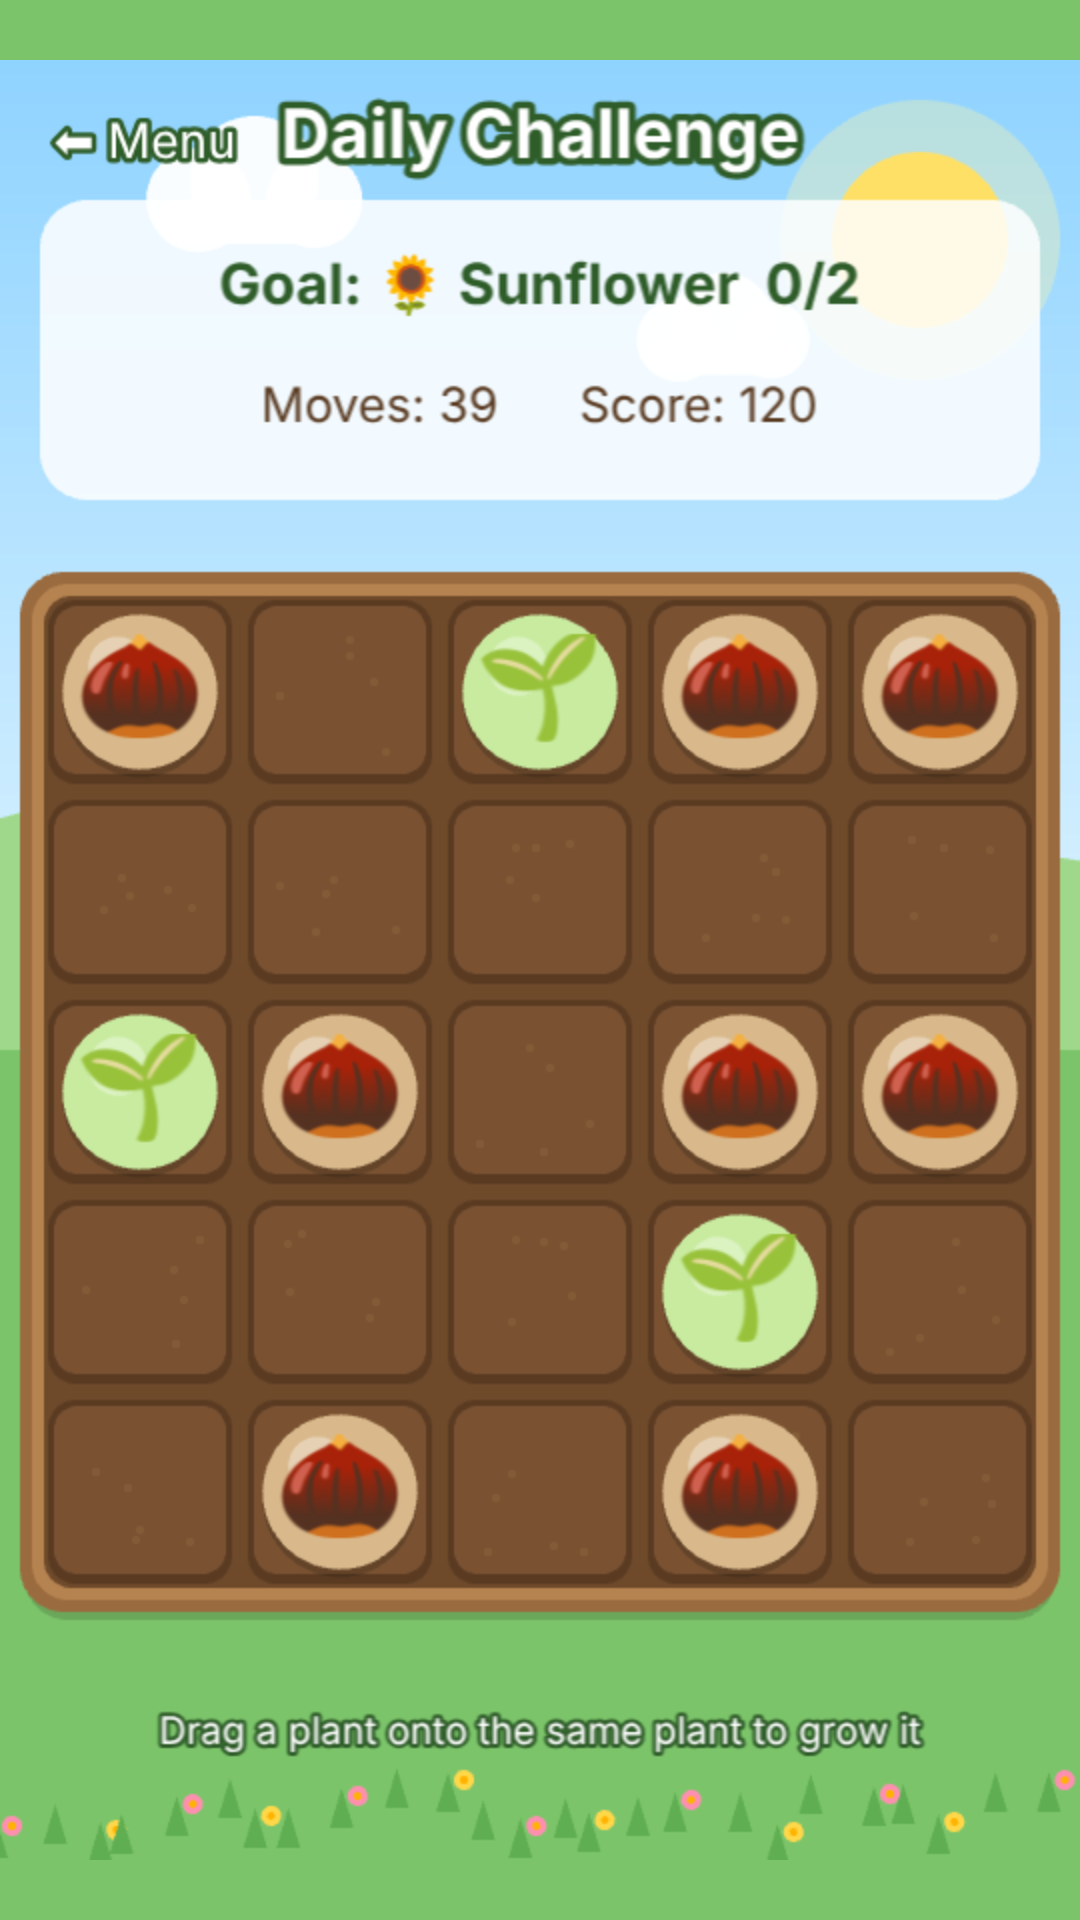
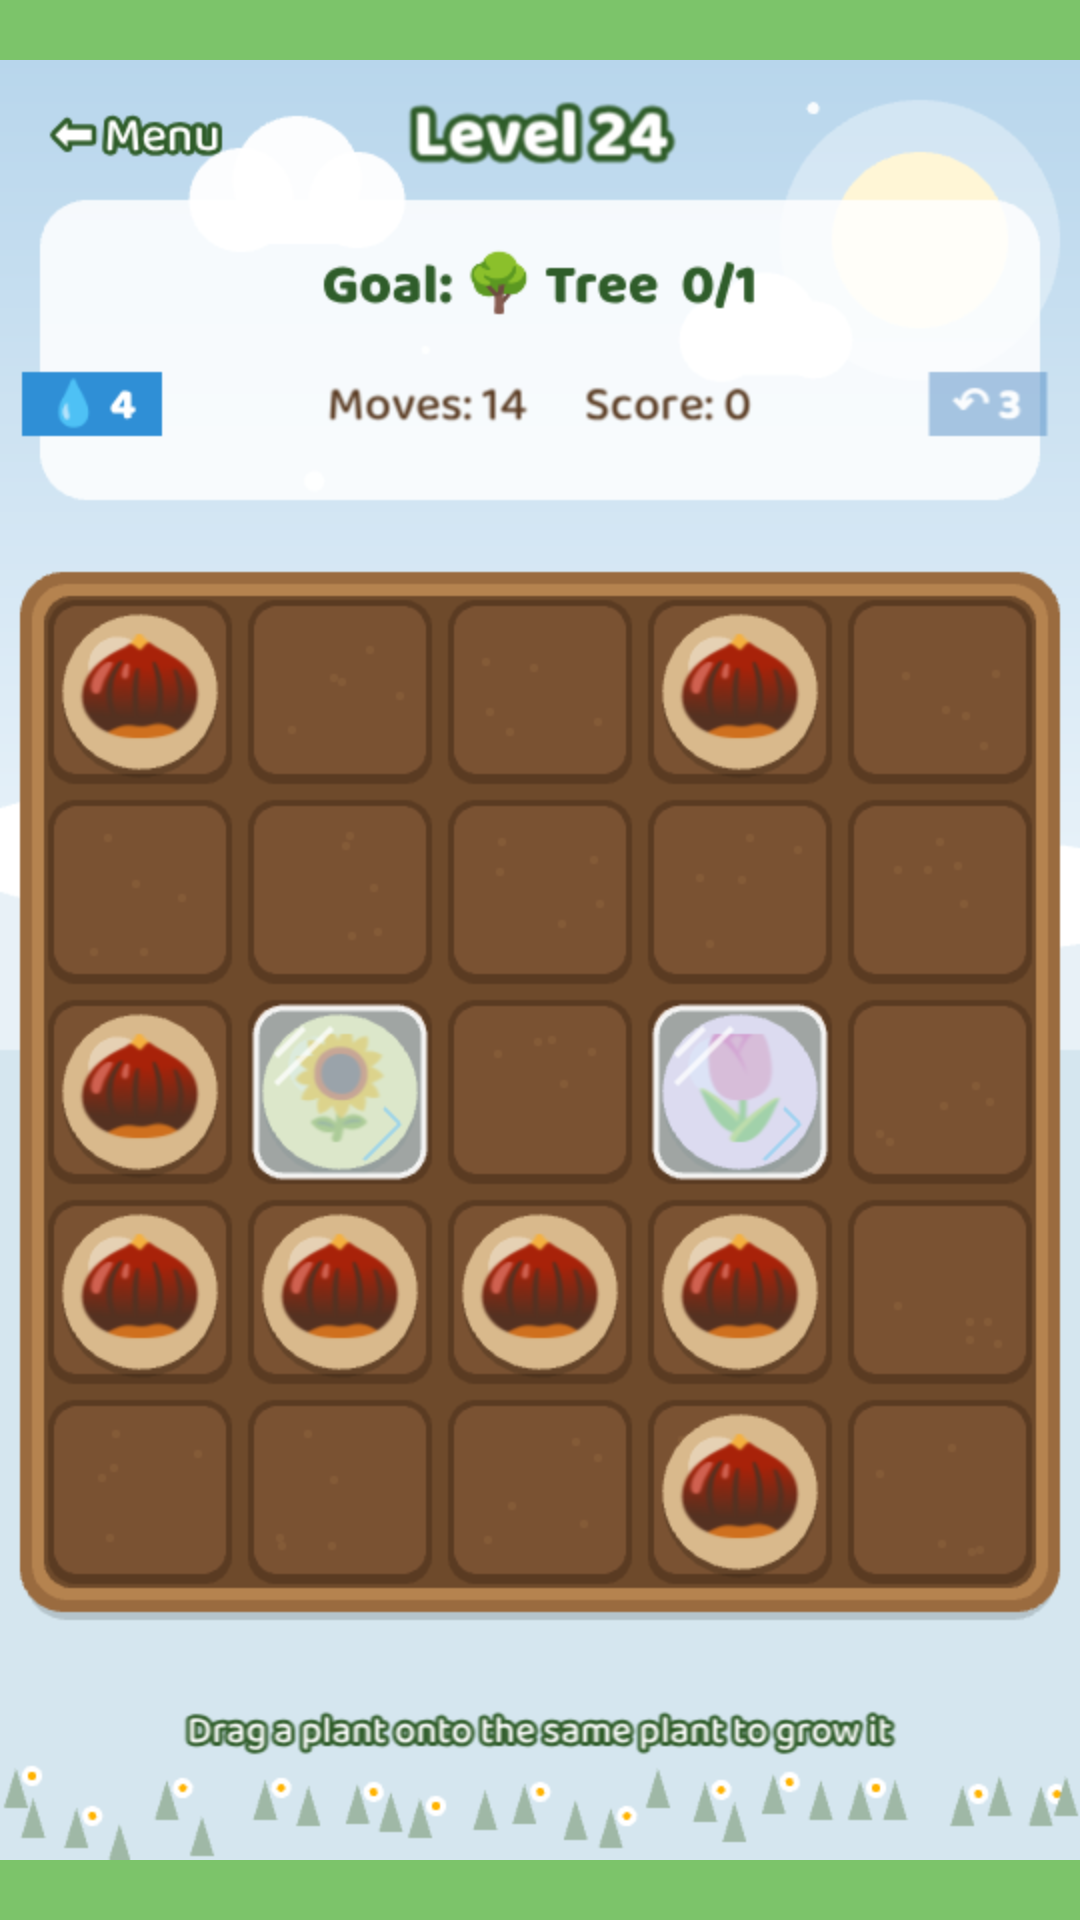
v1.0.0: new store screenshots and feature graphic, full store text, changelog, play/download links
Claude-Session: https://claude.ai/code/session_01SQCQvzAsnaTFsvNWX4jSgw

diff --git a/game/public/sw.js b/game/public/sw.js
@@ -1,5 +1,5 @@
 // Service worker: lets Bloom Merge work offline after the first visit.
-const CACHE = 'bloom-merge-v16';
+const CACHE = 'bloom-merge-v17';
 
 self.addEventListener('install', (e) => {
   e.waitUntil(caches.open(CACHE).then((c) => c.addAll(['./', './index.html', './manifest.webmanifest'])));

diff --git a/marketing/store-listing.md b/marketing/store-listing.md
@@ -1,4 +1,4 @@
-# Bloom Merge – Store Listing
+# Bloom Merge – Store Listing (v1.0)
 
 Use this text for Google Play, the Apple App Store, the Microsoft Store and itch.io.
 
@@ -9,7 +9,7 @@ Use this text for Google Play, the Apple App Store, the Microsoft Store and itch
 **App name (30 characters max):** Bloom Merge: Garden Puzzle
 
 **Short description (80 characters max):**
-Merge seeds into flowers and trees in a calm garden puzzle for the whole family.
+Merge seeds into flowers and trees, and help Granny Salma's garden bloom again!
 
 **Full description:**
 
@@ -18,23 +18,30 @@ Grow a beautiful garden one merge at a time! 🌱
 Drag two matching plants together and watch them grow:
 🌰 Seed → 🌱 Sprout → 🌷 Tulip → 🌻 Sunflower → 🌳 Tree → 🍎 Apple Tree
 
-Bloom Merge is a relaxing puzzle game for everyone: children, parents and grandparents.
-Each level takes only a few minutes, so it is perfect for a short break.
+Granny Salma's garden has gone quiet. Help her bring the meadow back to life, grow trees between the rocks, and thaw the plants frozen in her icy pond.
+
+Bloom Merge is a relaxing puzzle game for everyone: children, parents and grandparents. Each level takes only a few minutes, so it is perfect for a short break.
 
 **Features**
 • Simple drag-and-drop play that anyone can learn in seconds
-• 10 hand-made levels with goals and stars to collect
+• 30 levels in 3 worlds: Sunny Meadow, Rocky Garden and Frozen Pond
 • 📅 Daily Challenge: a new puzzle every day, the same for every player. Build your streak! 🔥
+• 📜 Daily Quests: earn 💧 Magic Water, which grows any plant in one tap
+• 🏡 My Garden: decorate your own garden with everything you grow
+• 📖 Garden Album: 12 animal friends to collect, who come to visit your garden
+• 👪 Family Garden: 2–4 players take turns on one device
+• ✏ Level Editor: make your own puzzles and share them with a code
+• 🌸❄🌙🎉 Seasonal gardens: spring, summer, autumn, winter, Ramadan and Eid
 • 🧸 Kid Mode: no move limit, no pressure, just play
-• Bright garden art, gentle music and happy sounds
+• ↶ Undo, hints and a gentle tutorial
+• ♿ Colour-blind markers, reduce motion, sound and vibration switches
 • English and Arabic
-• Plays offline, no internet needed
-• No ads in Kid Mode, and no chat with strangers
+• Plays offline. No ads, no in-app purchases, no energy timers, no accounts, no data collected
 
 Plant your first seed today! 🌻
 
 **Category:** Puzzle (secondary: Family / Casual)
-**Tags:** merge, puzzle, garden, relaxing, family, kids, offline, casual
+**Tags:** merge, puzzle, garden, relaxing, family, kids, offline, casual, no ads
 **Content rating:** Everyone (PEGI 3 / ESRB E)
 
 ---
@@ -44,7 +51,7 @@ Plant your first seed today! 🌻
 **اسم التطبيق:** حديقة الدمج: لعبة ألغاز
 
 **الوصف المختصر:**
-ادمج البذور لتصبح أزهارًا وأشجارًا في لعبة ألغاز هادئة لكل العائلة.
+ادمج البذور لتصبح أزهارًا وأشجارًا، وساعد الجدة سلمى لتزهر حديقتها من جديد!
 
 **الوصف الكامل:**
 
@@ -53,33 +60,53 @@ Plant your first seed today! 🌻
 اسحب نبتتين متشابهتين معًا وشاهدهما تكبران:
 🌰 بذرة ← 🌱 برعم ← 🌷 توليب ← 🌻 عباد الشمس ← 🌳 شجرة ← 🍎 شجرة تفاح
 
-حديقة الدمج لعبة ألغاز مريحة للجميع: الأطفال والآباء والأجداد.
-كل مرحلة تأخذ دقائق قليلة فقط، فهي مثالية لاستراحة قصيرة.
+حديقة الجدة سلمى أصبحت هادئة وفارغة. ساعدها لتعيد الحياة إلى المرج، وتزرع الأشجار بين الصخور، وتذيب الجليد عن نباتات البركة المتجمدة.
+
+حديقة الدمج لعبة ألغاز مريحة للجميع: الأطفال والآباء والأجداد. كل مرحلة تأخذ دقائق قليلة فقط، فهي مثالية لاستراحة قصيرة.
 
 **المميزات**
 • لعب سهل بالسحب والإفلات يتعلمه أي شخص في ثوانٍ
-• 10 مراحل مع أهداف ونجوم للجمع
+• 30 مرحلة في 3 عوالم: المرج المشمس، الحديقة الصخرية، البركة المتجمدة
 • 📅 تحدي اليوم: لغز جديد كل يوم، نفس اللغز لكل اللاعبين. حافظ على أيامك المتتالية! 🔥
+• 📜 المهام اليومية: اربح 💧 الماء السحري الذي يكبّر أي نبتة بلمسة
+• 🏡 حديقتي: زيّن حديقتك الخاصة بكل ما تزرعه
+• 📖 ألبوم الحديقة: 12 حيوانًا لتجمعها وتزور حديقتك
+• 👪 حديقة العائلة: من 2 إلى 4 لاعبين بالدور على جهاز واحد
+• ✏ محرر المراحل: صمم ألغازك وشاركها برمز
+• 🌸❄🌙🎉 حدائق المواسم: الربيع والصيف والخريف والشتاء ورمضان والعيد
 • 🧸 وضع الأطفال: بدون حد للحركات وبدون ضغط
-• رسومات حديقة مبهجة وموسيقى هادئة وأصوات لطيفة
+• ↶ تراجع وتلميحات ودرس تعليمي لطيف
+• ♿ علامات لعمى الألوان، وتقليل الحركة، ومفاتيح للصوت والاهتزاز
 • اللغة العربية والإنجليزية
-• تعمل بدون إنترنت
-• بدون إعلانات في وضع الأطفال، وبدون محادثة مع الغرباء
+• تعمل بدون إنترنت. بدون إعلانات، بدون مشتريات، بدون مؤقتات طاقة، بدون حسابات، ولا نجمع أي بيانات
 
 ازرع أول بذرة اليوم! 🌻
 
 ---
 
-## Screenshots (in the `screenshots` folder)
-| File | Use |
+## Screenshots (in the `screenshots` folder, 1080×1920)
+| File | Shows |
 |---|---|
-| `01-menu-en.png`, `02-game-en.png`, `03-win-en.png` | Phone screenshots, English (1080×1920) |
-| `04-menu-ar.png`, `05-game-ar.png` | Phone screenshots, Arabic (1080×1920) |
+| `01-menu-en.png` | Menu, World 3, autumn garden |
+| `02-game-en.png` | Level 24 with frozen plants (winter) |
+| `03-garden-en.png` | My Garden with animals |
+| `04-album-en.png` | Garden Album |
+| `05-quests-en.png` | Daily Quests |
+| `06-story-en.png` | Granny Salma's story |
+| `07-menu-ar.png` | Arabic menu, Ramadan garden |
+| `08-garden-ar.png` | Arabic My Garden, Eid |
 | `feature-graphic.png` | Google Play feature graphic (1024×500) |
 | `icon-512.png` | Store icon (512×512) |
 
+## Links for the store forms
+- Website: https://engkhkh.github.io/bloom-merge/
+- Privacy policy: https://engkhkh.github.io/bloom-merge/privacy.html
+- Contact email: khilel208@gmail.com
+
 ## Before you publish
-- [x] Privacy policy: `game/public/privacy.html` (English + Arabic). Contact email: khilel208@gmail.com. Use its web address https://engkhkh.github.io/bloom-merge/privacy.html in the store forms.
-- [ ] Google Play: fill in the "Target audience and content" form (includes children → Families policy)
-- [ ] Apple: set the age rating to 4+
+- [x] Privacy policy online (English + Arabic)
+- [x] Screenshots and feature graphic for v1.0
+- [ ] Google Play: create the signing key and add the 4 GitHub secrets (see `game/README.md`), then upload `bloom-merge-play.aab`
+- [ ] Google Play: fill in the "Target audience and content" form (includes children → Families policy). Data safety form: "No data collected".
+- [ ] Apple: needs a Mac with Xcode; set the age rating to 4+
 - [ ] Add a parent gate if you ever add in-app purchases

diff --git a/CHANGELOG.md b/CHANGELOG.md
@@ -1,0 +1,67 @@
+# Changelog
+
+## 1.0.0 (26 Nov 2026) – first full release
+- New store screenshots (8, English and Arabic), feature graphic and store text covering every feature
+- Everything from 0.1–0.15 below
+
+## 0.15.0
+- 📖 Story: Granny Salma introduces and closes each world (6 chapters, English and Arabic), replay from the Album
+
+## 0.14.0
+- Ideas from similar merge games (see `marketing/competitor-comparison.md`):
+  - combos (3 in a row = double points, 5 in a row = +1 💧)
+  - 💧 Magic Water wild card
+  - 📜 Daily Quests
+
+## 0.13.0
+- ⚙ Settings: sound, music, vibration, reduce motion, colour-blind markers, language, reset progress
+
+## 0.12.0
+- 🏡 My Garden: decorate with the plants you grew, and Album animals wander around
+
+## 0.11.0
+- ↶ Undo
+- 45 automated tests in CI, including "every level is winnable"
+
+## 0.10.0
+- World 3: Frozen Pond (levels 21–30), with ice that thaws on nearby merges
+
+## 0.9.0
+- World 2: Rocky Garden (levels 11–20), with rocks
+- Contact email in the privacy policy
+
+## 0.8.0
+- First-game tutorial, idle hints, Android back button, vibration, music pauses in the background
+
+## 0.7.0
+- ✏ Level Editor with share codes
+- Smaller desktop app
+- GitHub Actions builds for the web, Windows and Android
+
+## 0.6.0
+- Seasonal gardens (spring, summer, autumn, winter, Ramadan, Eid)
+- Bundled font
+- Windows app
+
+## 0.5.0
+- 📖 Garden Album (12 visitors)
+- 👪 Family Garden (2–4 players)
+- Privacy policy page
+
+## 0.4.0
+- Arabic language (RTL)
+- 📅 Daily Challenge with streak
+- Store kit
+
+## 0.3.0
+- 🍎 Apple Tree replaces the rainbow
+- Android, iOS and Electron projects
+
+## 0.2.0
+- Garden art
+- Sounds and music
+- 10 levels
+- Installable PWA
+
+## 0.1.0
+- First playable version: 5×5 merge board, 5 levels, Kid Mode

diff --git a/README.md b/README.md
@@ -1,5 +1,7 @@
 # 🌻 Bloom Merge · حديقة الدمج
 
+**Play now:** https://engkhkh.github.io/bloom-merge/ · **Download:** [Releases](https://github.com/engkhkh/bloom-merge/releases) (Windows, Android) · [Changelog](CHANGELOG.md)
+
 A calm merge-and-grow garden puzzle for the whole family. Drag two matching plants together to grow them:
 
 🌰 Seed → 🌱 Sprout → 🌷 Tulip → 🌻 Sunflower → 🌳 Tree → 🍎 Apple Tree
